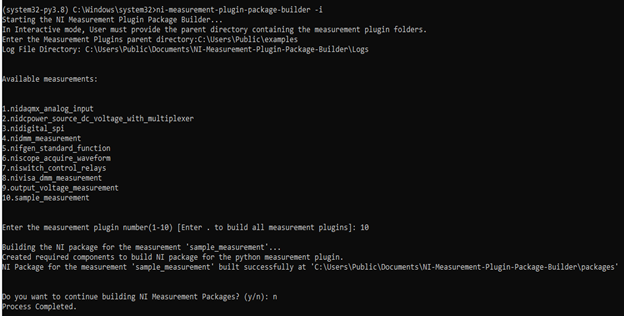
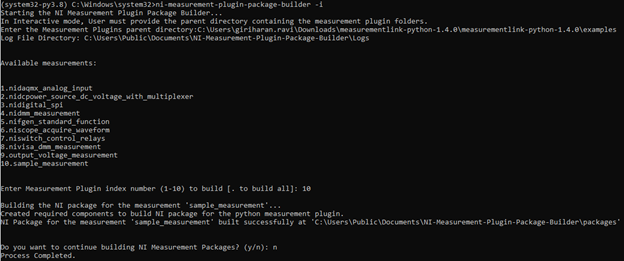
Update CLI messages | interactive mode (#4)
What does this Pull Request accomplish?
Rephrased the CLI message for interactive mode

Why should this Pull Request be merged?
To update the latest changes to the main branch.

What testing has been done?
Manual Testing.

Changed region(s): [[0.0, 0.0, 1.0, 1.0]]

diff --git a/src/ni_measurement_plugin_package_builder/constants/_messages.py b/src/ni_measurement_plugin_package_builder/constants/_messages.py
@@ -31,8 +31,8 @@ class UserMessages:
     FAILED_PUBLIC_DIR = "Failed to get PublicDocuments directory. Using UserDocuments for Log file."
     FAILED_USER_DIR = "Failed to get UserDocuments directory. Using Temp directory for\
  Log file."
-    MEASUREMENT_NUMBER = "Enter the measurement plugin number({start}-{end})\
- [Enter . to build all measurement plugins]: "
+    MEASUREMENT_NUMBER = "Enter Measurement Plugin index number ({start}-{end}) to build\
+ [. to build all]:"
     CONTINUE_BUILDING = "Do you want to continue building NI Measurement Packages? (y/n): "
     AVAILABLE_MEASUREMENTS = "Available measurements: "
     INVALID_INPUT = "Invalid measurement plugin number."

diff --git a/src/ni_measurement_plugin_package_builder/__init__.py b/src/ni_measurement_plugin_package_builder/__init__.py
@@ -1,2 +1,2 @@
 # flake8: noqa
-__version__ = "1.2.0-dev1"
+__version__ = "1.2.0-dev2"

diff --git a/docs/HLD/ni_package_builder_hld.md b/docs/HLD/ni_package_builder_hld.md
@@ -57,7 +57,7 @@ Arguments like `--plugin-dir, --base-dir, --selected-meas-plugins` can be used w
 #### Interactive mode
 
 Interactive mode involves interaction with the tool through prompting. Once the user runs the tool with this argument `-i`, it starts prompting the user for inputs.
-It initially prompts the user with the base directory of measurement plugin and list down the available measurements for better user experience. User can select the measurement plugin by its ID to build the packages. Once the package is built, the prompt will ask user for the next plugin.
+It initially prompts the user with the base directory of measurement plugin and list down the available measurements for better user experience. User can select the measurement plugin by its index number to build the packages. Once the package is built, the prompt will ask user for the next plugin.
 Note: User can enter (dot) '.' to build all measurements.
 
 #### Logger implementation

diff --git a/CHANGELOG.md b/CHANGELOG.md
@@ -5,6 +5,12 @@ All notable changes to this library will be documented in this file.
 The format is based on [Keep a Changelog](http://keepachangelog.com/).
 and this project adheres to [Semantic Versioning](https://semver.org/spec/v2.0.0.html).
 
+## [1.2.0-dev2] - 2024-06-18
+
+### Changed
+
+- Update the CLI messages for `interactive mode`
+
 ## [1.2.0-dev1] - 2024-06-18
 
 ### Added
